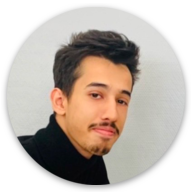
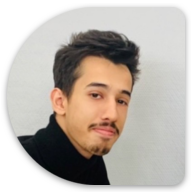
update: og images

Changed region(s): [[0.5938, 0.625, 1.0, 1.0], [0.5938, 0.0312, 1.0, 0.4062], [0.5312, 0.9375, 0.5625, 0.9688]]

diff --git a/nuxt.config.ts b/nuxt.config.ts
@@ -1,7 +1,7 @@
 // https://nuxt.com/docs/api/configuration/nuxt-config
 const metaTitle: string = 'Nicolas Jesenberger — Algolia';
 const metaDescription: string = 'Front-End Developer in Paris, France';
-const metaUrl: string = 'https://nicolasjesenberger.com';
+const metaUrl: string = 'https://algolia.nicolasjesenberger.com';
 const metaImage: string = `${metaUrl}/images/og-image.png`;
 
 export default defineNuxtConfig({
